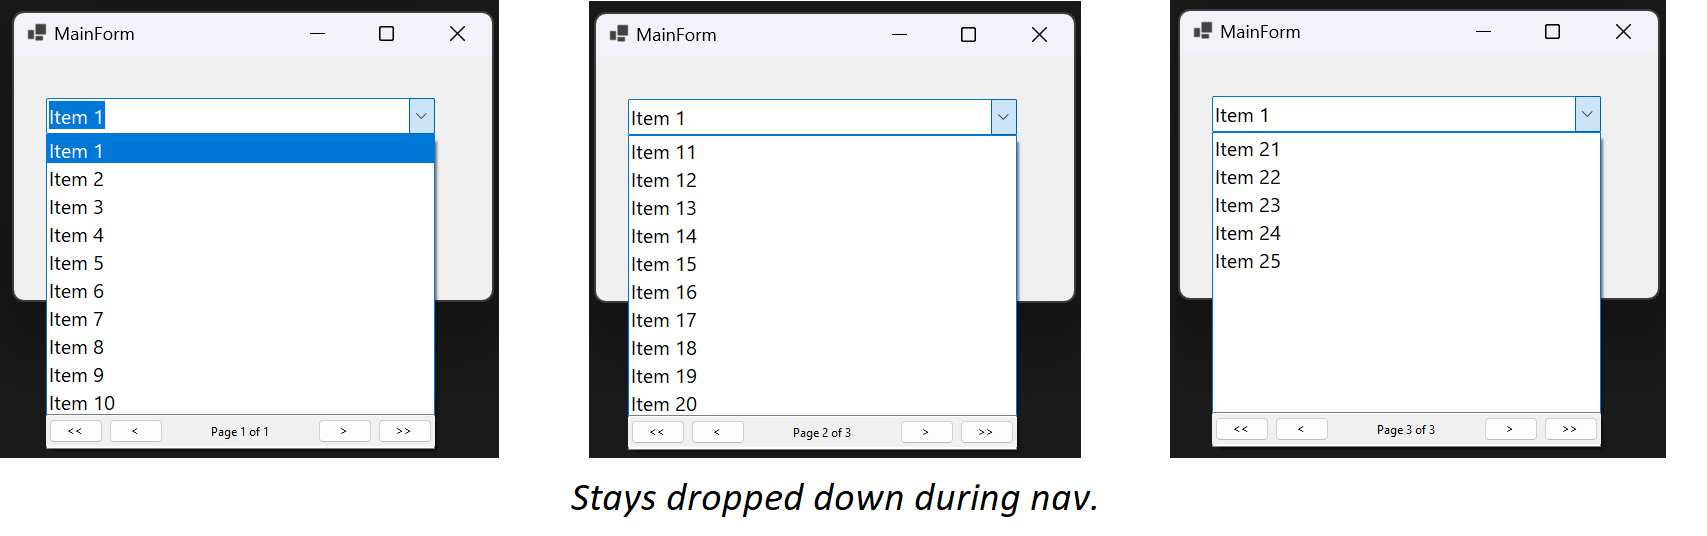
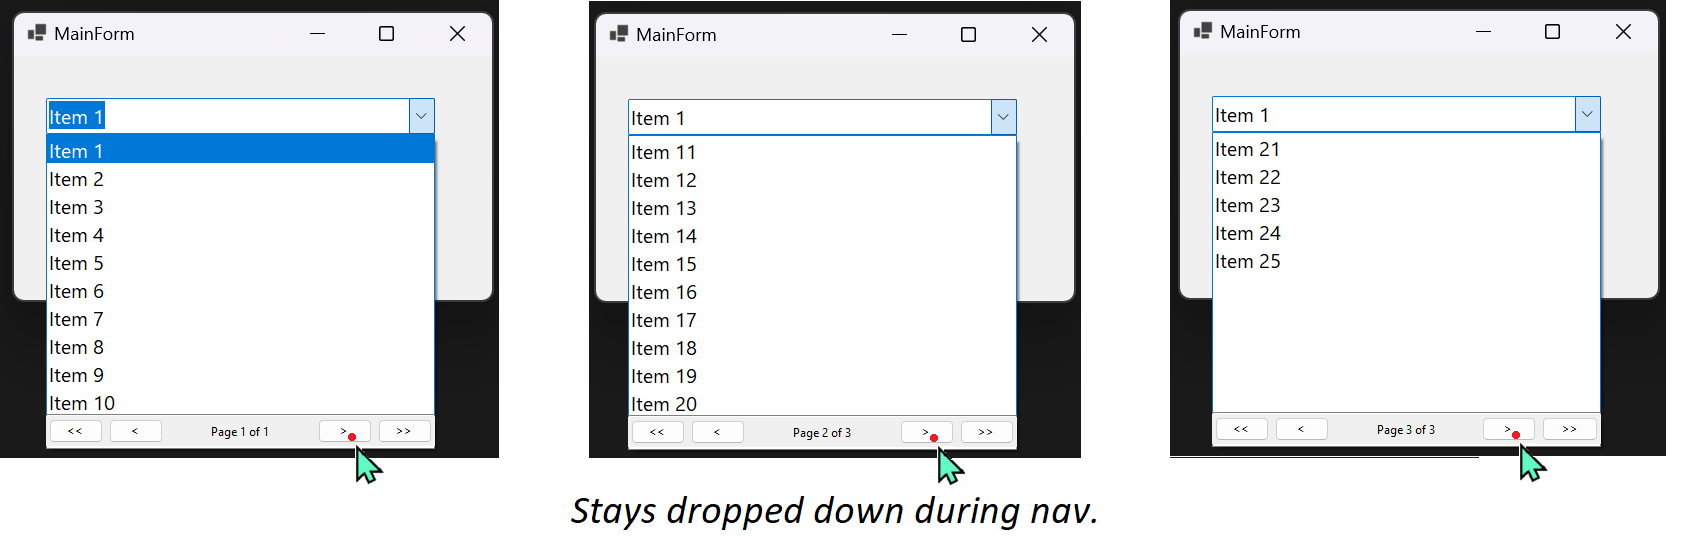
improved image

Changed region(s): [[0.3105, 0.8358, 0.652, 0.9851], [0.8694, 0.806, 0.9625, 0.8955], [0.1863, 0.8358, 0.2484, 0.8955]]

diff --git a/README.md b/README.md
@@ -4,7 +4,7 @@ As I understand it, you've made a `UserControl` for the pagination and when you 
 
 I was able to reproduce the behavior you're describing and then was able to suppress it by implementing [IMessageFilter](https://learn.microsoft.com/en-us/dotnet/api/system.windows.forms.imessagefilter) for the user control in order to intercept the mouse events and mark them as "handled" in the filter (if they occur inside the client rectangle of the UC). 
 
-[![screenshot][2]][2]
+[![nav][2]][2]
 
     public partial class Pagination : UserControl, IMessageFilter
     {
@@ -82,4 +82,4 @@ Feel free to browse or [clone](https://github.com/IVSoftware/combobox-pagination
 
 
   [1]: https://i.stack.imgur.com/QlZbI.png
-  [2]: https://i.stack.imgur.com/E2BN2.png
+  [2]: https://i.stack.imgur.com/zLY1Y.png
